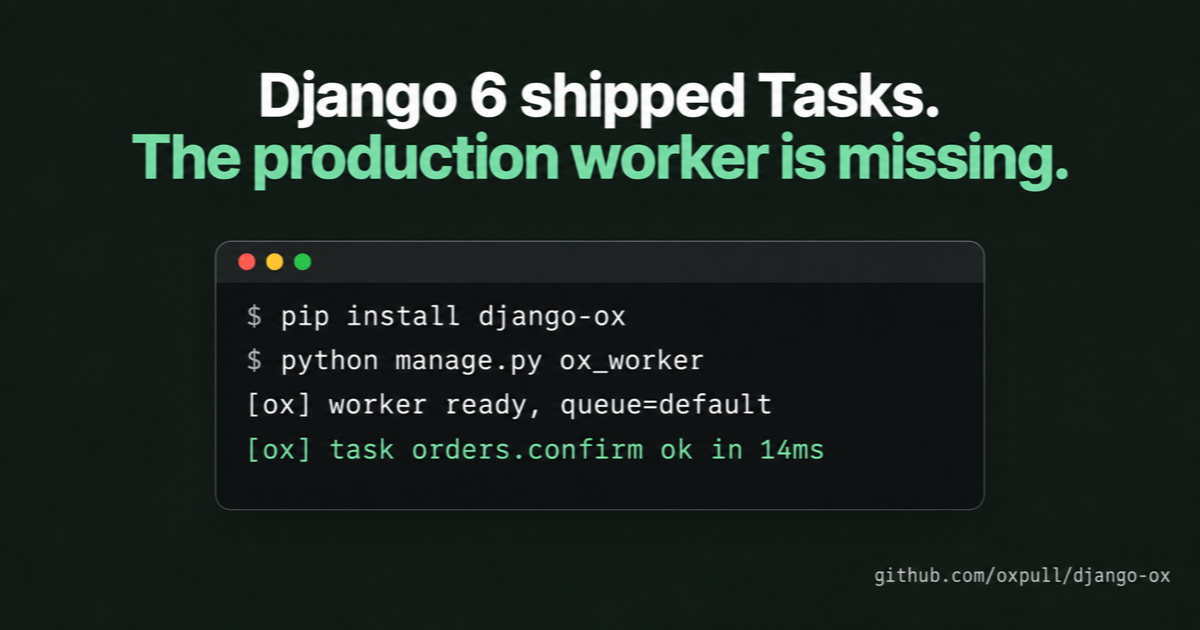
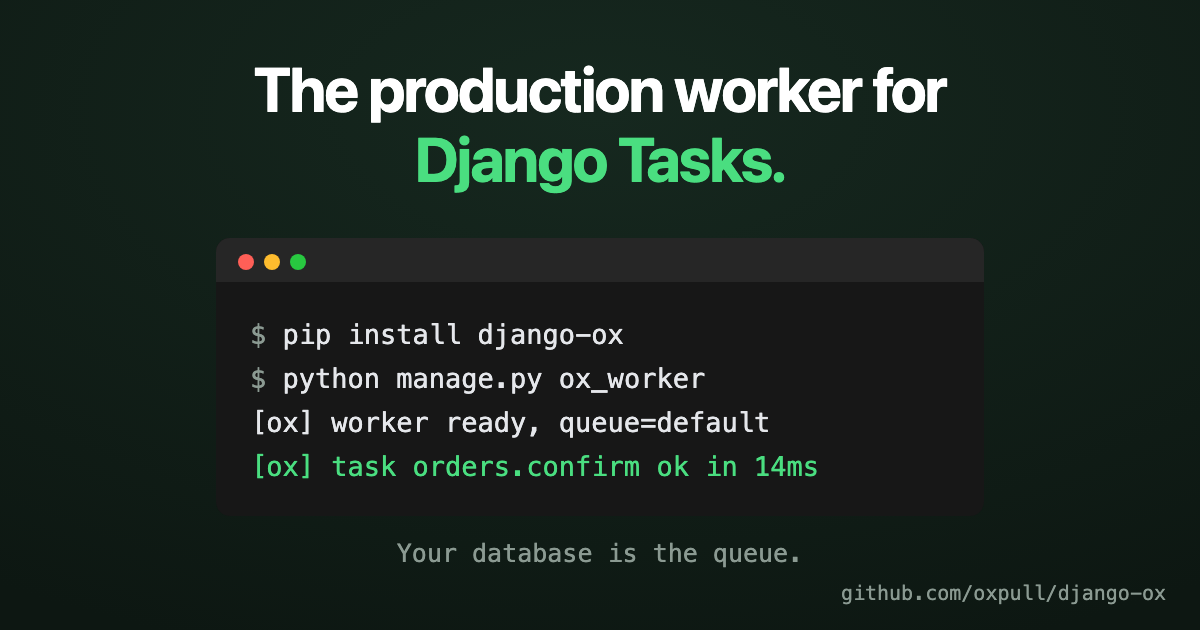
Publish the numbers the raw data supports, and the losing result
The page claimed an enqueue throughput gap that no raw file supports. In
the current data the two ranges touch, so no gap is claimed at all now.
The task count read 37,802 against a recorded 37,804, and "zero completed
twice" was wrong: one task did, after a worker was killed between
finishing and recording, which is what at-least-once means.

Concurrency 4 goes to django-tasks-db. That result now sits on the page
beside the win, under a heading that says measured.

Pro adds three things, not two. Rate limiting shipped and the card
omitted it. The price escalation and the lock implied by "the launch
price" are gone, because nothing in the terms backed either.

The comparison page is linked beside the benchmarks, so the claim in the
headline can be checked in one click.

diff --git a/index.html b/index.html
@@ -3,21 +3,21 @@
 <head>
   <meta charset="utf-8">
   <meta name="viewport" content="width=device-width, initial-scale=1">
-  <title>Oxpull Pro waitlist. A production worker for Django Tasks</title>
+  <title>Oxpull Pro waitlist. The production worker for Django Tasks</title>
   <meta name="description" content="A database-backed worker for Django's Tasks framework. Transactional enqueue, no broker. Join the waitlist for the Pro tier.">
   <link rel="canonical" href="https://oxpull.com/">
 
   <meta property="og:type" content="website">
   <meta property="og:site_name" content="Oxpull">
-  <meta property="og:title" content="A production worker for Django Tasks">
+  <meta property="og:title" content="The production worker for Django Tasks">
   <meta property="og:description" content="A database-backed worker for Django's Tasks framework. Transactional enqueue, no broker. Join the waitlist for the Pro tier.">
   <meta property="og:url" content="https://oxpull.com/">
   <meta property="og:image" content="https://oxpull.com/assets/social-card.png">
   <meta property="og:image:width" content="1200">
   <meta property="og:image:height" content="630">
-  <meta property="og:image:alt" content="django-ox: Django 6 shipped Tasks, the production worker is missing.">
+  <meta property="og:image:alt" content="django-ox: the production worker for Django Tasks. Your database is the queue.">
   <meta name="twitter:card" content="summary_large_image">
-  <meta name="twitter:title" content="A production worker for Django Tasks">
+  <meta name="twitter:title" content="The production worker for Django Tasks">
   <meta name="twitter:description" content="A database-backed worker for Django's Tasks framework. Transactional enqueue, no broker. Join the waitlist for the Pro tier.">
   <meta name="twitter:image" content="https://oxpull.com/assets/social-card.png">
 
@@ -35,9 +35,9 @@
 
     <main>
       <section class="hero">
-        <p class="eyebrow">django.tasks &middot; Django 6.0+</p>
-        <h1>A production worker for Django Tasks</h1>
-        <p class="lede">Django 6.0 ships the Tasks API, but its built-in backends are for
+        <p class="eyebrow">django.tasks &middot; Django 5.2 LTS+</p>
+        <h1>The production worker for Django Tasks</h1>
+        <p class="lede">Django ships the Tasks API, but its built-in backends are for
           development only. <strong><span data-brand>Oxpull</span></strong> stores the queue in the
           database you already run and executes tasks with a separate worker process. No broker,
           no Redis, nothing new to operate.</p>
@@ -58,15 +58,22 @@
 
       <section class="bench">
         <h2>Measured, not promised</h2>
-        <p>Against django-tasks-db 0.12 on PostgreSQL 16 (2,000 no-op tasks, three interleaved
-          runs, one machine), <span data-package>django-ox</span> enqueued at 528 to 657 tasks
-          per second versus 447 to 454, and completed the batch at 88 to 90 tasks per second
-          versus 69 to 70 with a single worker. In-transaction enqueue latency was a tie, about
-          half a millisecond at p50 for both.</p>
+        <p>Against django-tasks-db 0.12 on PostgreSQL 16 (2,000 no-op tasks, five runs per
+          arm, one machine), <span data-package>django-ox</span> completed the batch at 114.9
+          tasks per second against 103.6 with a single worker. Every one of our five runs
+          beat every one of theirs: our slowest was 112.6, their fastest 105.0.
+          In-transaction enqueue latency was a tie, about six tenths of a millisecond at
+          p50 for both. Enqueue throughput favoured <span data-package>django-ox</span>, but the
+          two ranges touch, so we are not claiming a gap there. At concurrency 4 the
+          result reverses and django-tasks-db is ahead, 346.3 against 328.5 on the mean and wider on the median. The
+          <a href="https://oxpull.com/django-ox/benchmarks/">benchmarks page</a> carries
+          that result and the method behind every figure.</p>
         <p>Reliability got the same treatment: 21 minutes of sustained load on PostgreSQL 16,
-          37,802 tasks, including nine minutes in which workers were repeatedly SIGKILLed
-          mid-task. Every task reached a terminal state, zero were lost, zero completed twice in
-          that run, and interrupted work was reclaimed inside the documented bound.</p>
+          37,804 tasks, including nine minutes in which workers were repeatedly SIGKILLed
+          mid-task. Every task reached a terminal state and none were lost. One task ran
+          twice, because its worker was killed after the work finished but before the result
+          was recorded. That is what at-least-once means. No task ran twice without a kill,
+          and interrupted work was reclaimed inside the documented bound.</p>
         <p class="caveat">No-op benchmarks flatter every queue, so read these as relative, not as
           capacity planning. The full methodology, every run, and the raw per-sample data ship in
           the repository.</p>
@@ -93,18 +100,22 @@
               <li>Stats API and health command</li>
             </ul>
             <p class="note">PostgreSQL, SQLite and MySQL 8, all tested in CI. Live now:
-              <code>pip install django-ox</code> &middot;
+              <code>pip install django-ox</code>, or
+              <code>pip install "django-ox[backport]"</code> on Django 5.2 LTS &middot;
               <a href="https://github.com/oxpull/django-ox">GitHub</a> &middot;
-              <a href="https://oxpull.com/django-ox/">docs</a>.</p>
+              <a href="https://oxpull.com/django-ox/">docs</a> &middot;
+              <a href="https://oxpull.com/django-ox/choosing/">how it compares</a>.</p>
           </div>
           <div class="tier pro-tier">
             <h3><span data-brand>Oxpull</span> Pro <span class="tag">commercial license</span></h3>
             <ul>
               <li>Batches: enqueue many, track as one</li>
               <li>Unique tasks (deduplication)</li>
+              <li>Rate limiting</li>
               <li>Email support from the maintainer</li>
+              <li>Requires Django 6.0 or later</li>
             </ul>
-            <p class="note">Both built and tested. Not yet on sale: the purchase path is still
+            <p class="note">All three are built and tested. Not yet on sale: the purchase path is still
               being set up, and the waitlist below is how to hear when it opens. Delivered from a private
               package index using credentials issued per company, with no licence key and no runtime check
               to break your production. Install stays <code>pip install</code>.</p>
@@ -114,10 +125,8 @@
 
       <section id="waitlist">
         <h2>Pricing, and the waitlist</h2>
-        <p class="price-line">Pro launches at <strong>$399 per year, per company</strong>, flat,
-          self-serve. The price moves toward $995 per year as the feature set fills out, so the
-          waitlist is also the cheap seat: join now, buy at the launch price. Seven-day money-back,
-          no trial keys.</p>
+        <p class="price-line">Pro is planned at <strong>$399 per year, per company</strong>, flat,
+          self-serve. Seven-day money-back, no trial keys.</p>
 
         <div class="signup">
           <form id="waitlist-form" method="post">
@@ -158,9 +167,11 @@
 
         <h3>Do I need Pro to run production?</h3>
         <p>No. Durability, retries, the reaper, and graceful shutdown are all in the free
-          worker, and so are the stats API and the health command. Pro adds two
-          things the free tier does not do: batching and deduplication. Support comes
-          with it.</p>
+          worker, and so are the stats API and the health command. Pro adds three
+          things the free tier does not do: batching, deduplication and rate limiting.
+          Support comes with it. Pro needs Django 6.0 or later. The free worker also
+          runs on Django 5.2 LTS through the <code>django-tasks</code> backport, and
+          Pro does not.</p>
       </section>
     </main>
 

diff --git a/thanks.html b/thanks.html
@@ -19,7 +19,7 @@
 
     <main class="thanks">
       <h1>You're on the list</h1>
-      <p>Expect one email: when Pro opens at the launch price. Nothing else, ever, and a reply
+      <p>Expect one email: when Pro opens. Nothing else, ever, and a reply
         saying "remove" deletes your address. Meanwhile the open source worker is live:
         <code>pip install django-ox</code>.</p>
       <p><a href="index.html">Back to the page</a></p>
